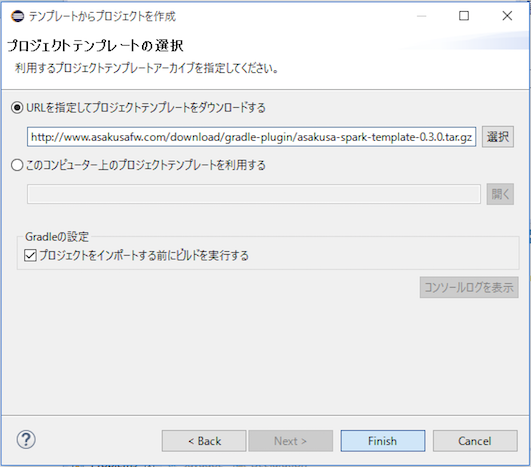
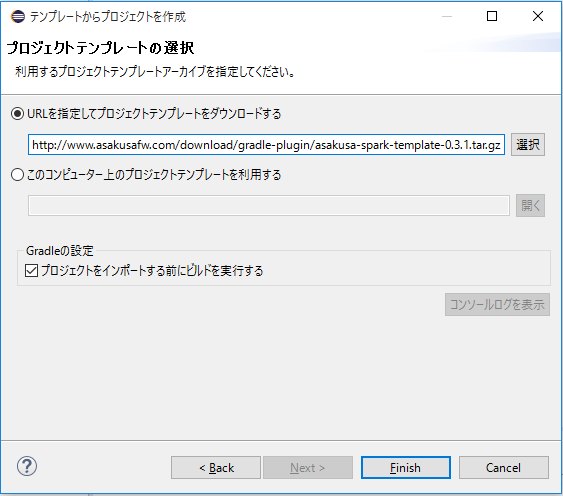
Revise document for version 0.8-revision-1
- Bumps document version.
- Bumps target askusafw version.
- Bumps target askusafw-spark version.
- Bumps target askusafw-m3bp version.

diff --git a/docs/ja/source/conf.py b/docs/ja/source/conf.py
@@ -39,15 +39,15 @@ extensions = [
 [extensions]
 
 extlinks = {
-    'asakusafw': ('http://docs.asakusafw.com/0.8.0/release/ja/html/%s',  None),
-    'asakusa-on-spark': ('http://docs.asakusafw.com/asakusa-on-spark/0.3.0/release/ja/html/%s', None),
-    'asakusa-on-m3bp': ('http://docs.asakusafw.com/asakusa-on-m3bp/0.1.0/release/ja/html/%s', None),
+    'asakusafw': ('http://docs.asakusafw.com/0.8.1/release/ja/html/%s',  None),
+    'asakusa-on-spark': ('http://docs.asakusafw.com/asakusa-on-spark/0.3.1/release/ja/html/%s', None),
+    'asakusa-on-m3bp': ('http://docs.asakusafw.com/asakusa-on-m3bp/0.1.2/release/ja/html/%s', None),
     'jinrikisha': ('http://docs.asakusafw.com/jinrikisha/ja/html/%s', None),
 }
 
 javadoclinks = {
-    'javadoc': ('http://docs.asakusafw.com/0.8.0/release/api/%s.html', ""),
-    'gradledoc': ('http://docs.asakusafw.com/0.8.0/release/gradle-plugins/%s.html', "")
+    'javadoc': ('http://docs.asakusafw.com/0.8.1/release/api/%s.html', ""),
+    'gradledoc': ('http://docs.asakusafw.com/0.8.1/release/gradle-plugins/%s.html', "")
 }
 
 # Add any paths that contain templates here, relative to this directory.
@@ -74,9 +74,9 @@ author = u'Asakusa Framework Team'
 # built documents.
 #
 # The short X.Y version.
-version = u'0.8-preview-1'
+version = u'0.8-revision-1'
 # The full version, including alpha/beta/rc tags.
-release = u'0.8-preview-1'
+release = u'0.8-revision-1'
 
 # The language for content autogenerated by Sphinx. Refer to documentation
 # for a list of supported languages.

diff --git a/docs/ja/source/readme.rst b/docs/ja/source/readme.rst
@@ -27,7 +27,7 @@
 * UnixシェルやWindowsコマンドなど、利用するOSのコマンドラインインターフェースについて基本的な知識を持っている
 
 このチュートリアルの後半では `Apache Spark`_ 環境上でバッチアプリケーションを実行する手順を説明しています。
-`Apache Spark`_ や関連する `Apache Hadoop`_ については本チュートリアルでは解説しませんので、
+Spark や関連する `Apache Hadoop`_ については本チュートリアルでは解説しませんので、
 この部分についてはSparkやHadoopの基本的な知識があることを前提としています。
 
 ..  _`Apache Spark`: http://spark.apache.org/
@@ -37,10 +37,8 @@
 ========================
 
 このチュートリアルで扱うサンプルアプリケーションはGitHubで公開しているサンプルアプリケーションプロジェクト
-`example-directio-csv <https://github.com/asakusafw/asakusafw-examples/tree/0.8.0/example-directio-csv>`_ をベースにしています。
+`example-basic-spark <https://github.com/asakusafw/asakusafw-examples/tree/0.8.1/example-basic-spark>`_ をベースにしています。
 完成したソースコードやプロジェクト構成を確認したい場合はこちらも参考にしてください。
-
-..  todo:: 0.8.1ベースにする際には ``example-basic-spark`` に変更してリンクURLも変更
 
 ドキュメントについて
 ====================
